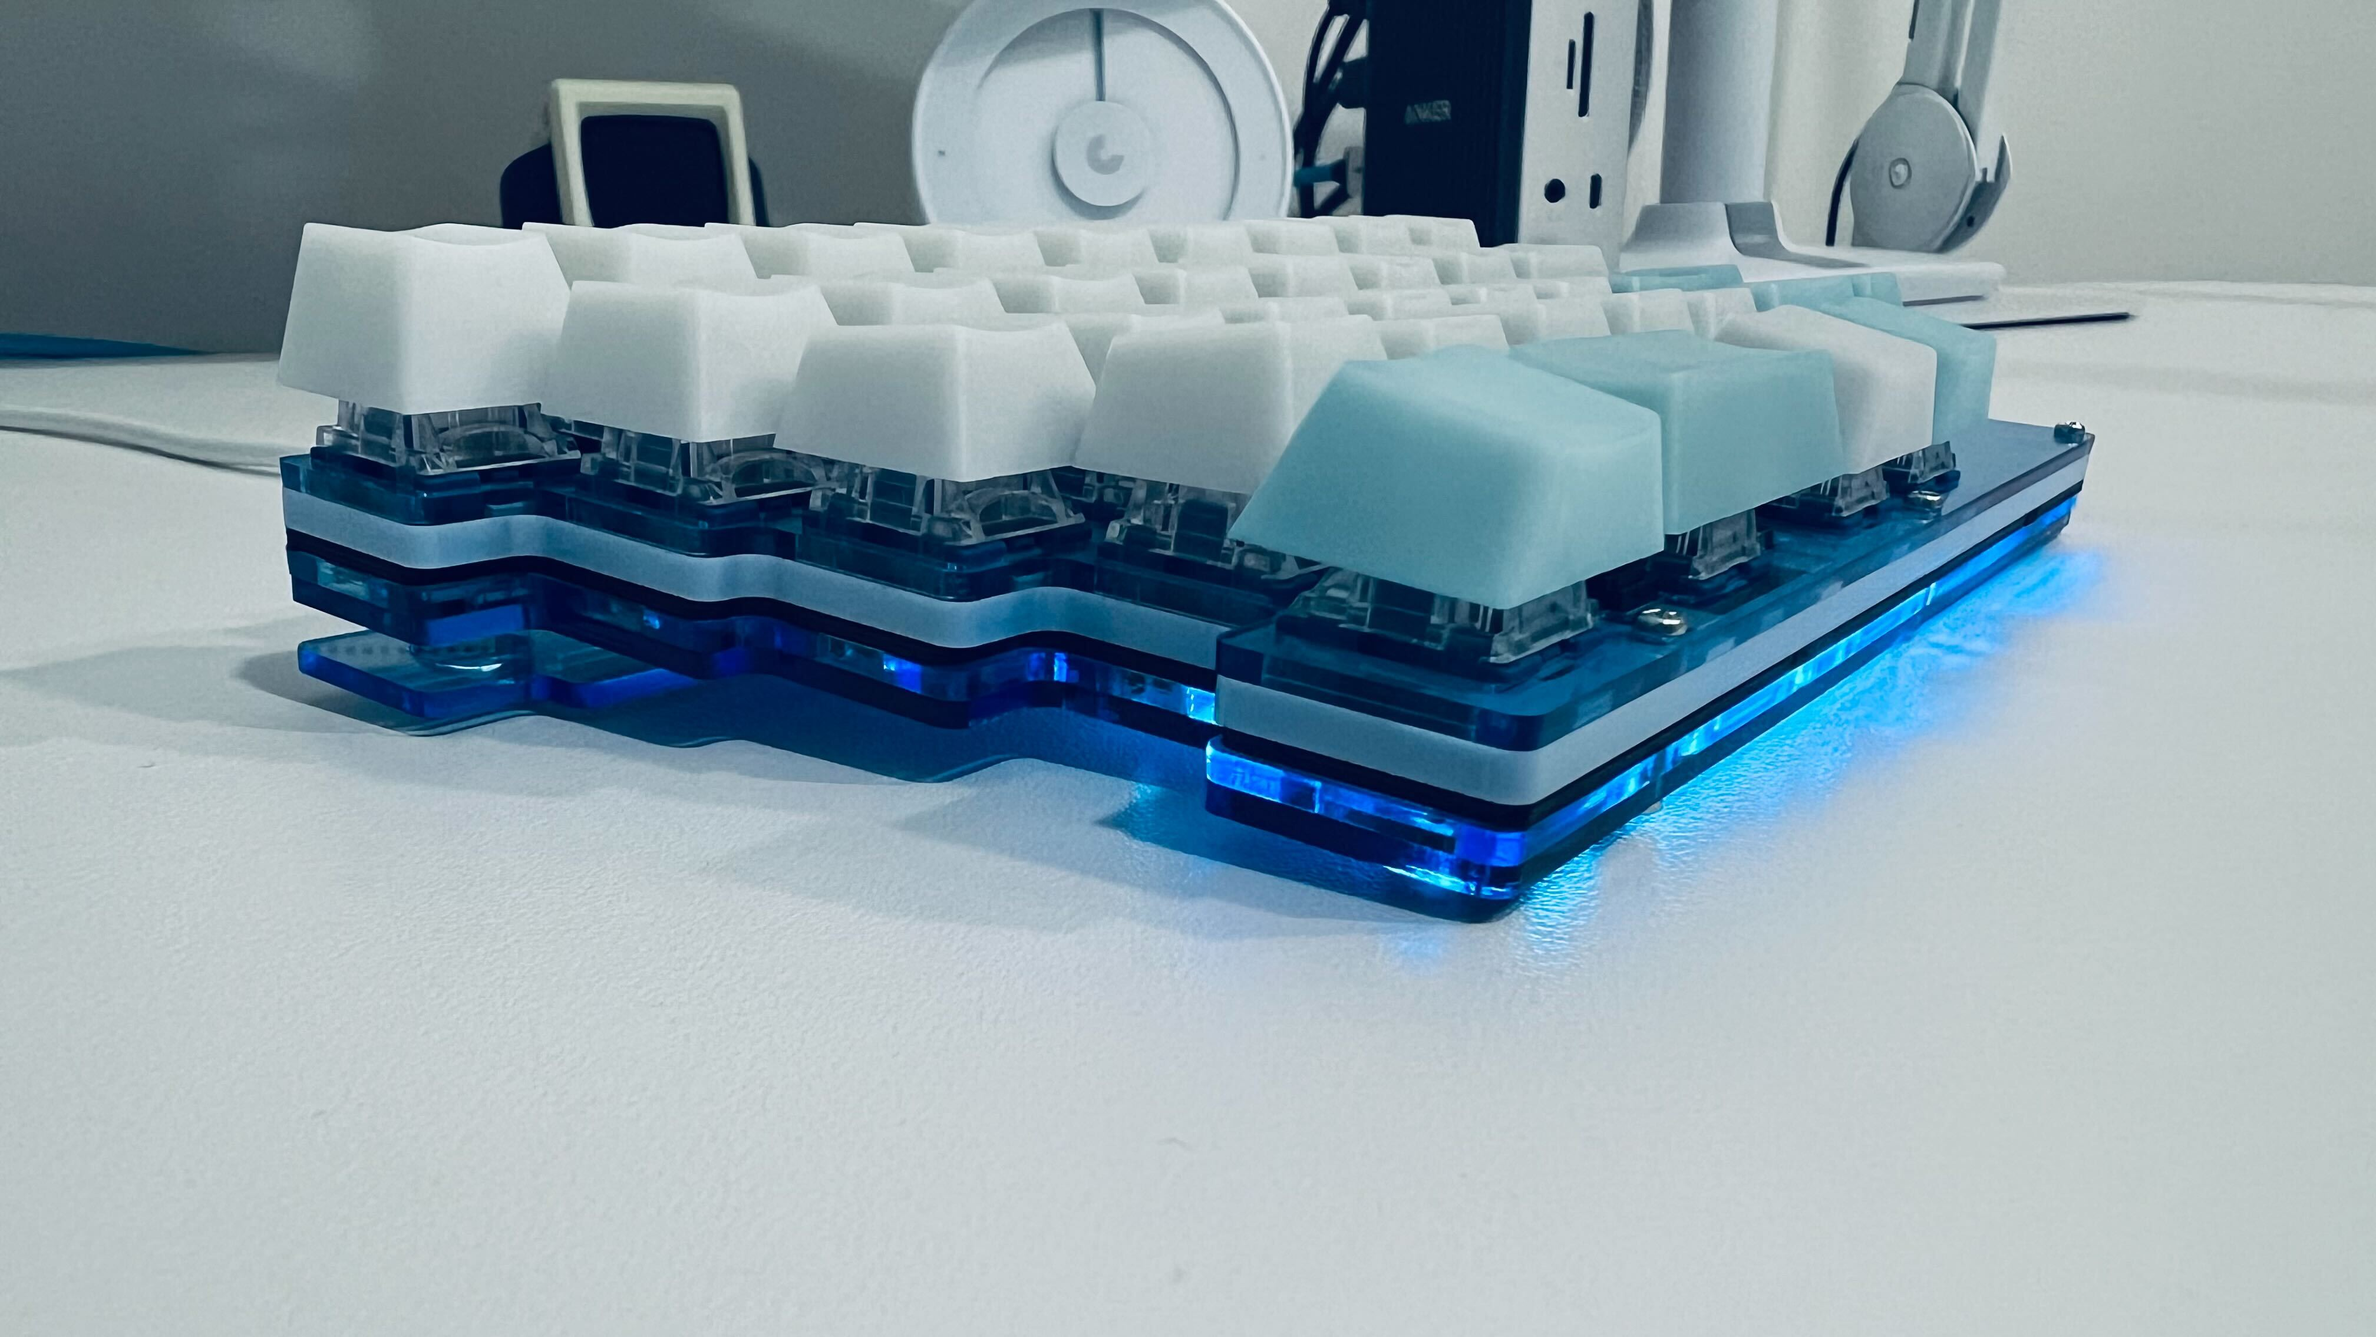
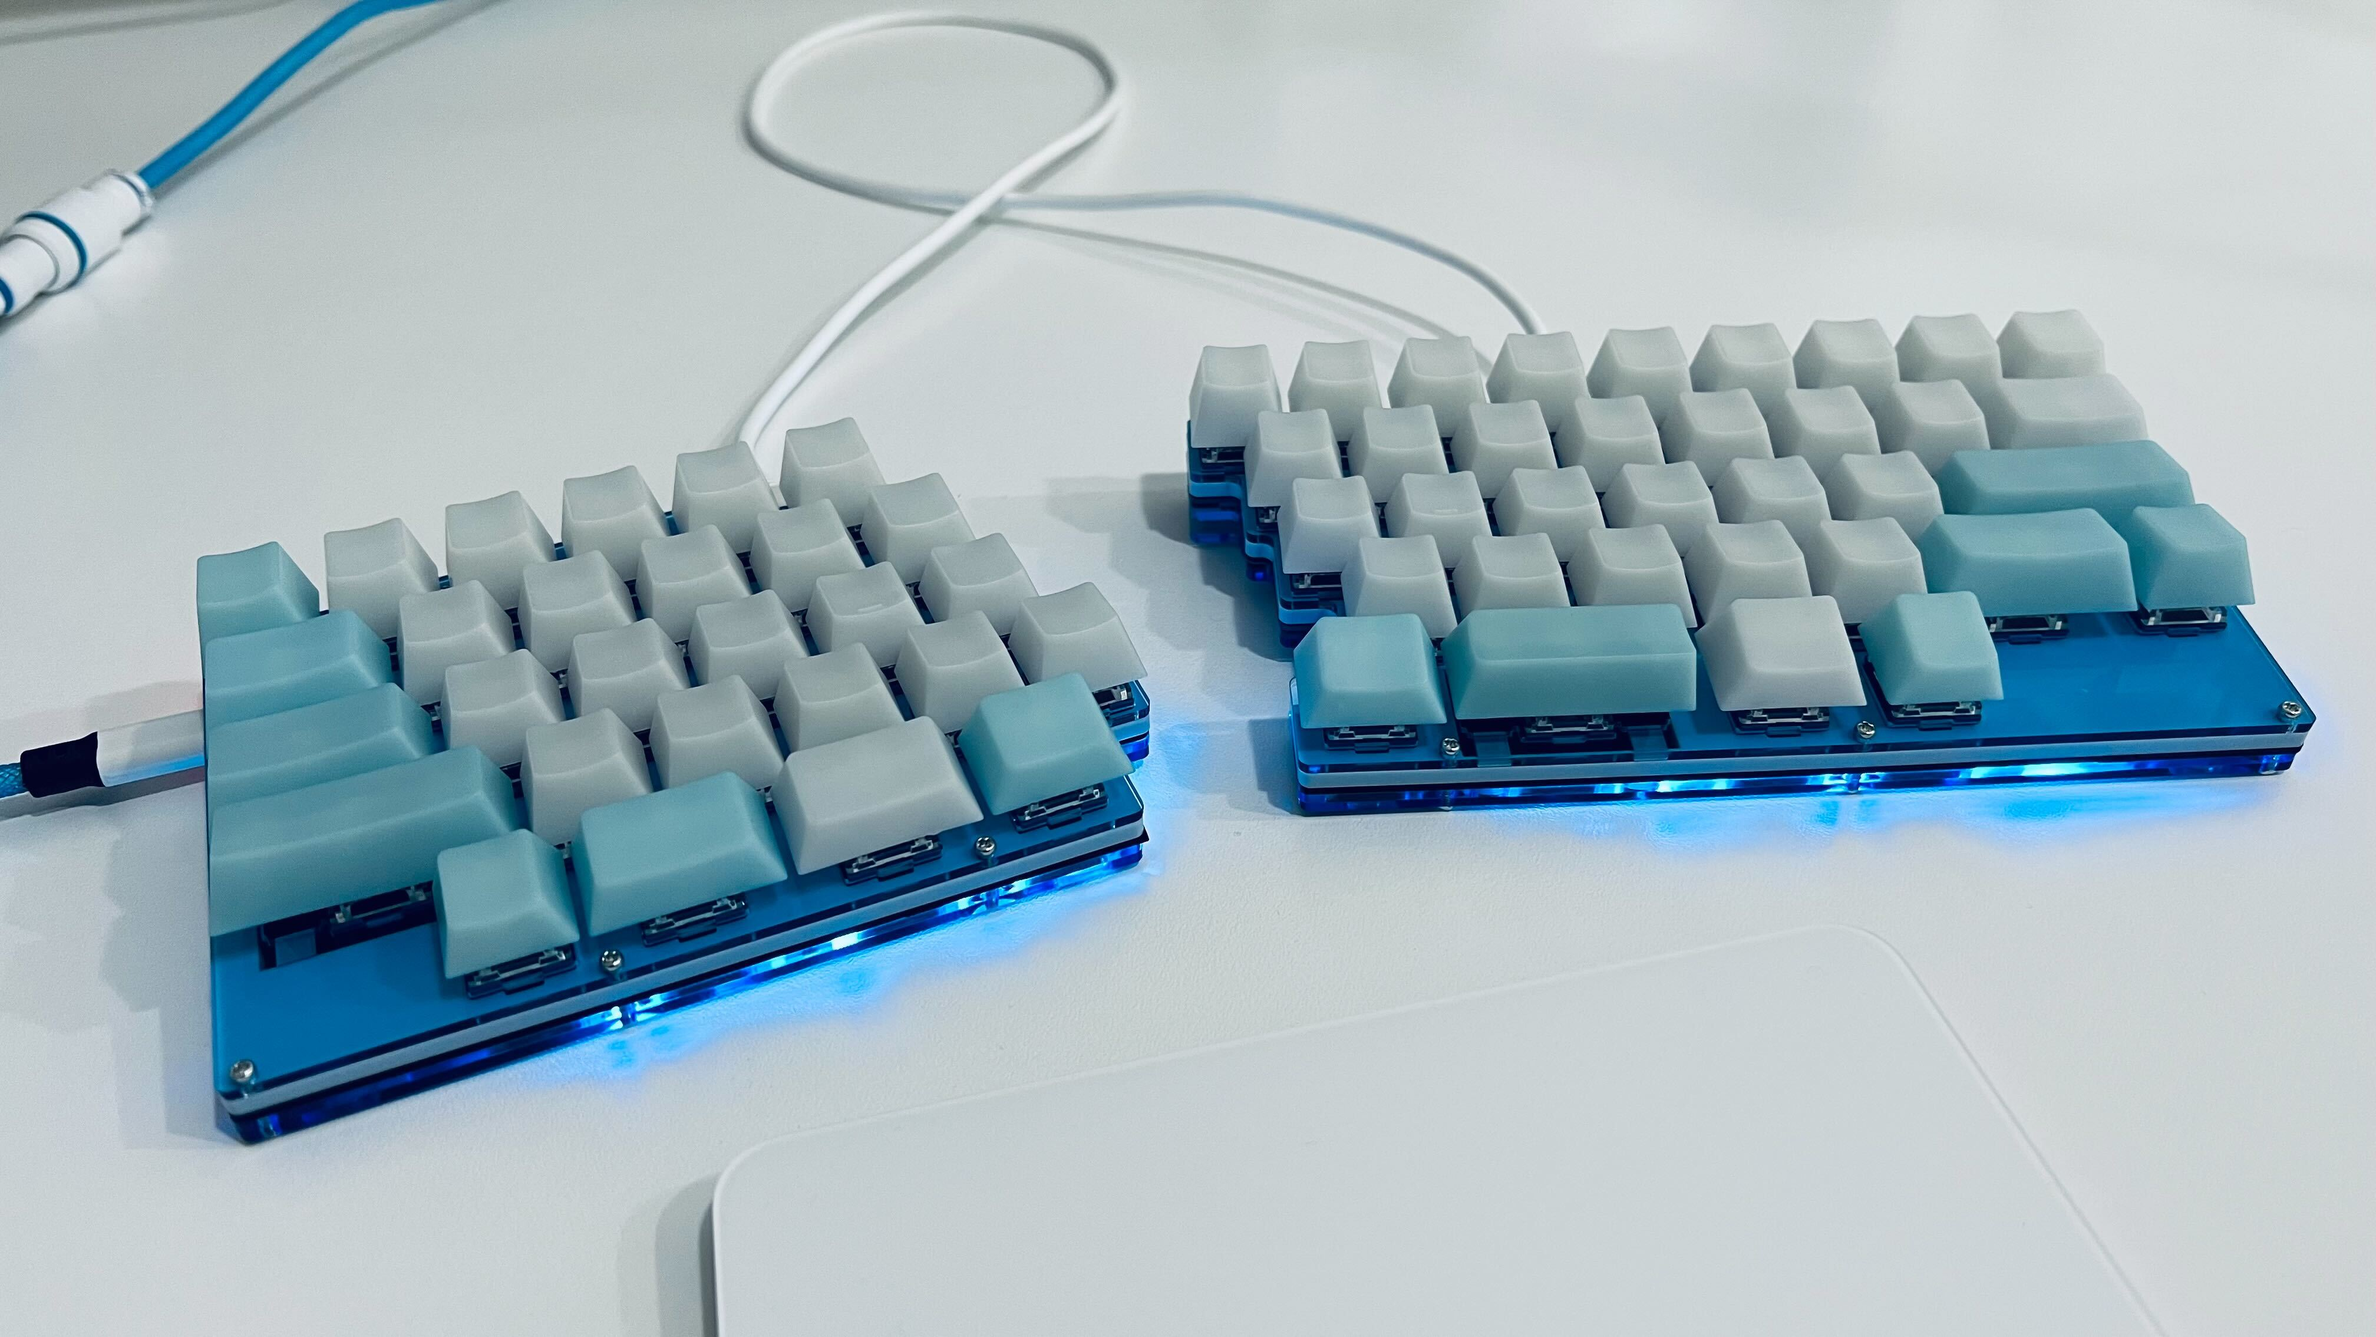
[post] 2023/10/build-7spro

diff --git a/content/posts/2023/10/build-7spro/index.md b/content/posts/2023/10/build-7spro/index.md
@@ -14,23 +14,135 @@ image: "/images/post/2023/10/build-7spro.jpg"
 
 キーボードの特徴として、[HHKB](https://happyhackingkb.com/jp/) のキー配列を踏襲しつつ分割型にしたものとなっていて、僕みたいに HHKB を2台並べて仮想分割 HHKB をやっているような人に最適なキーボードとなっています。
 
-これやってる人、実は結構いますよね
+![白い HHKB と黒い HHKB を横に並べて議事セパレートキーボードをしている様子](./01.jpg "これやってる人、実は結構いますよね")
 
 実際に僕が組んだものと HHKB を並べてみるとわかるのですが、キー配列に関しては HHKB のスペースキーが4つに分割されているくらいの違いしかありません。
 
+![HHKB と 7sPro を並べて比較している](./02.jpg "HHKB は記号や機能キーの配列が他の US 配列と比べて少し特殊です")
+
 7sPro は分割キーボードですが、きれいにくっつけられるようになっていて、その状態だと通常のキーボードのように使えます。
 
+ちょっと一瞬自分語りをしますが、ここで HHKB を HHKB たらしめているものはなんなのかということを考えてみます。  
+個人的には2つあると思っていて、静電容量無接点方式によるスコスコする打鍵感、そして独特のキー配列です。この2点が我々が HHKB から離れられない理由なのかなと思っています。実際僕はこれまで他の分割型キーボードに移行したことがあるのですが、結局は HHKB に戻ってしまいました。  
+言われそうな意見として、キーマップを変えて HHKB に合わせりゃいいんじゃないのというのがありますが、そもそものキーのレイアウトとして、そうはできないことがほとんどだったりします。  
+例えば、一般的な US 配列のレイアウトは enter の上は \ がきてその上に backspace がきます。また、 enter の下には shift がきたり矢印キーがきたりします。そしてそれはキースイッチのサイズとしてもそれこそがベストであるかのような横幅をしています。しかし HHKB の場合は enter の上には delete が着てその上には ~ がきます。そして enter の下には Fn がきます。矢印キーは存在せず、Fn と他のキーの組み合わせて移動を実現します。  
+この HHKB の配列をキーマップをいじって再現しようとしても基本的なレイアウトのキーボードだとサイズ感が明らかにおかしい感じになって手になじみません。また、分割キーボードによくあるオーソリニアやカラムスタッガードのレイアウトであればキーマップの変更でいけそうな気配がありますが、そもそもそれはもう HHKB のレイアウトから遠く離れています。なんとなく配置をそれっぽくは置けますが、HHKB の感覚でタイピングをすると誤タイプしまくりです。
 
-- 組み立て済み
-- アクリルプレート
-- 買った理由
-  - moonlander
-- 組み立て話
-  - はんだづけが少ない
-  - 僕の歴
-  - 買ったもの
-  - 困ったところ
-- キースイッチ
-- キーキャップ
-- 感想
-- youtube
+つまり 7sPro は HHKB ユーザーになんの違和感も与えず、その上で分割ができる、これを実現している素晴らしいキーボードです。  
+スコスコ感の再現はちょっと難しいんですけどお好きなキースイッチが使えるということで…。
+
+## 購入の仕方
+
+なんと遊舎工房さんで[はんだ付け済み簡単キット](https://shop.yushakobo.jp/collections/keyboard/products/3923?variant=42888566210791)が販売されています。  
+これを買えばドライバー一本で組み立てができるのでとても楽に 7sPro を手に入れることができます。
+
+ただ今回僕はせっかくの初めての自作キーボードなのではんだ付けしたいなあと思い、自分でやるタイプの方を購入しました。  
+ちなみに通販ではなく遊舎工房さんの店舗に行ったのですが、7sPro の組み立ての為に必要なものを事細かに聞いたところめちゃくちゃしっかりと色々教えていただきてとても助かりました。素晴らしいお店。
+
+さらに 7sPro にはフルアクリルバージョンというオプションがあり、基盤を挟むプレートをアクリル素材のもので作ることができます。  
+こちらにすると見た目の自由度が広がるので、かわいいもの好きの僕は今回こちらを選びました。アクリルバージョンにするためには自作キット以外でも追加で購入しなきゃいけないものが色々あるのですが、後述するサリチル酸の記事で全て細かく解説されているので、特に組み立てる際に何かがなくて困るみたいなことも起こらなかったです。
+
+## 手順
+
+サリチル酸さんがビルドガイドを用意してくれているのでそれを見ながらやれば大体良い感じに進みます。
+
+- [自作キーボードキット『7sPro』ビルドガイド](https://salicylic-acid3.hatenablog.com/entry/7spro-build-guide)
+- [自作キーボードキット『7sPro』フルアクリルバージョンビルドガイド](https://salicylic-acid3.hatenablog.com/entry/7spro-acrylic-build-guide)
+
+また、キーボードレビュー動画を投稿されている [Daihuku さんの動画](https://www.youtube.com/watch?v=0SnyE86LGKM) では組み立ての様子を動画で細かく紹介してくれているので、その動画もとても参考になります。  
+あとはトラブルが起きたらひたすらググって他の人のブログなどで補填して組み立てました。
+
+ちなみに 7sPro は最初からある程度はんだ付けされていて、自分ではんだ付けしないといけない箇所は最小限になっており、僕の記憶だと60回くらいはんだをプシューしたら終わったので、自作キーボードの中ではわりと難易度が低い方だと思います。  
+僕は最後にはんだ付けをしたのが約3年前とかだったのですが、無事に完成させられました。
+
+一応購入した部品を載せておきます。
+
+- [7sPro 自作キット](https://shop.yushakobo.jp/products/7spro)
+- [キーボードアクリルプレート](https://shop.yushakobo.jp/products/keyboard_acrylic_plate/)
+  - 7sPro 2mm と 7sPro 3mm
+- [オプションパーツ](https://salicylic-acid3.booth.pm/items/1969787)
+  - フルアクリル用ネジセット
+
+あとはドライバーやはんだごての他に、やすりやグリスも用意しました。
+
+## 困ったこと
+
+組み立てていく中で困ったこととどう解決したかというのも載せておきます。  
+大した情報ではありませんが、もしかしたら誰かの参考になるかもということで。
+
+### QMK Toolbox でファームウェアを書き込めない
+
+QMK Toolbox で Pro Micro にファームウェアを書き込もうとすると `avrdude.exe: ser_open(): can't open device アクセスが拒否されました` と表示されてしまい、書き込みが失敗してしまいました。  
+途方に暮れていたのですが、しばらく調べてみると NZXT CAM のようなモニタリングアプリが動いているとこれが起きるというのを見て、ちょうど NZXT CAM を使っていたのでそれを落として再度実行してみると無事に成功しました。
+
+### ファームウェアの書き込みに成功しても LED が光らない
+
+キースイッチを押すとしっかり反映はされるのですが、LED が光りませんでした。  
+原因の切り分けの仕方さえわからなかったので、とりあえず一度 LED テープにつけたはんだをはんだ吸引機で外して、再度はんだ付けをしたら無事に LED がつくようになりました。  
+単純にはんだ付けに失敗していたらしい。
+
+### TRRS ジャックがも
+
+完成した後の話ですが、TRRS ケーブルを挿したり抜いたりを繰り返していたところ、TRRS ケーブルがもげてしまいました。  
+これも特に根本原因の解消はできていないのですが、はんだ付けをやり直して元に戻しました。調べてみると TRRS ジャックはもげやすいようなので、しっかりとはんだ付けをしたらあとは優しく扱うという運用でカバー方式でやっていく気持ちになりました。  
+また Pro Micro の Micro-USB ももげやすいようなので、こちらはマグネットでつけるタイプのケーブルを使うなどした方が良いかなと思いました。
+
+## そして完成
+
+少しトラブルもありつつもなんとか詰むことはなく完成させられました。
+
+![全体的に青色でまとめられた 7sPro](./03.jpg "僕好みの色合いになりました")
+
+アクリルプレートは、3mm のプレートをパステルの水色に、2mm のプレートを透明の青にしました。  
+結果的にとても綺麗に色になったので満足しています。
+
+![7sPro を横から見ている。複数のアクリルプレートが重なっている](./04.jpg "横から見るとウエハースみたいでおいしそう")
+
+Fn を押してレイヤーを切り替えると LED が点灯するのもかわいい。
+
+![レイヤーが切り替わっていることをキーボードの左下の LED の点灯によって表現している](./05.jpg "筐体も青いし LED も青い、全てが青くて最高")
+
+### キースイッチ
+
+今回は3種類のキースイッチを試しました。
+
+- [TTC Speed Silver](https://www.fumo-shop.com/ducky-keyswitch-ttc-quicksilver.html)
+  - 僕の一番のお気に入りのキースイッチ
+  - 銀軸は作動点が短いのでゲーム向きなのですが、普通にプログラミング用途でも僕は好きです
+  - なによりキースイッチの色が青と白なのがかわいくて好きです
+- [Kailh Super Speed Switch Silver](https://shop.yushakobo.jp/products/4280?_pos=4&_sid=a25afcf23&_ss=r)
+  - これも銀軸なので TTC とあまり変わらないのですが、TTC より少し押下圧が軽い
+  - 別の銀軸も試してみたくて買いました
+- [Durock Black Lotus](https://shop.yushakobo.jp/products/6337)
+  - 最近よく聞くめっちゃ良いと噂のキースイッチ
+  - 実際試してみて、少し重いんだけど抜群に打鍵感や打鍵音が良かった
+  - が、悲しいことに 7sPro につけるとキースイッチがチラ見えするときに紫の主張が強すぎて僕の好みではなかったので断念
+  - キースイッチが見えないタイプのキーボードに使いたい
+
+結果として、今回もまたいつも使っている TTC Speed Silver を使いました。
+
+### キーキャップ
+
+今回は [EscapeKeyboard の POM Jelly Keycaps](https://www.fumo-shop.com/catalogsearch/result/?cat=2&q=EscapeKeyboard+POM+JeLLY+Keycaps&order=relevance&dir=desc) を使いました。  
+色んな色があるんですが、メインのキーは白に、機能キーは青にしました。
+
+ただ実際につけてみると、写真を見るとわかると思いますが結構くすんだ色に見えてしまってちょっと僕の好みとは違いました。  
+キースイッチ部分が光るキーボードとかだと良い感じに光りを透過してきれいに見えるキーキャップなんだろうなあと思いますが、今回はちょっと満足できなかったのでのちのち変えると思います。  
+もっと明るいパキッとした色にしたい。
+
+## 感想
+
+アクリルプレートの組み合わせを頭の中だけでシミュレーションして購入したんだけど実際作ってみると思ってた通りめっちゃ好みの色合いになって、それがとにかく嬉しかったです。
+
+そしてなにより初めての自作キーボードがしっかり完成までいけて無事に動くようになったのがとても嬉しい。  
+このブログは 7sPro で書いているのですが、HHKB 2台体制とほぼ変わらない体験でタイピングできるので、慣れるまで時間がかかるという弊害もなく使えているので、総じて満足感が高いです。
+
+あとは気になっているところとして、先に書いたキーキャップを変えたいという話の他に、さすがに Micro-USB はちょっときついので Type-C に変えたいというのがあります。  
+Pro Micro に Type-C のものがあるようなのでそれに変えるか、key micro というのもあるらしいのでそれに変えてもいいのかもしれない。できるのかどうか何もわからずに言っています。
+
+あとは現状 USB ケーブルと TRRS ケーブルをありもので対応しているので、それも 7sPro に合ったかわいいやつに変えてあげたい。  
+わりと見た目をこだわることでテンションが上がって仕事へのやる気に繋がっていくタイプなのでそこはしっかりやっていきたい。
+
+そして作っている最中の様子を動画に撮っていたのでこれはそのうち編集して YouTube にあげたいと思ってます。
+
+最後に、こんなに素晴らしいキーボードを設計してくれて、かつわかりやすいビルドガイドも残してくれているサリチル酸さんに感謝です。
